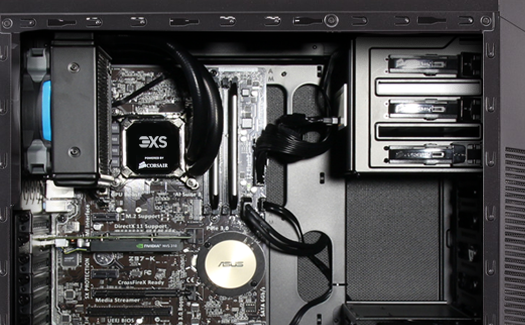
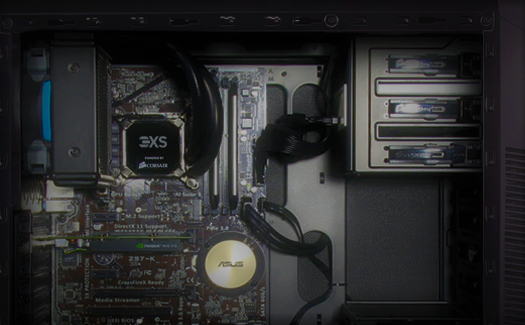
4
4

diff --git a/main.css b/main.css
@@ -1,89 +1,91 @@
 html{
-  margin:0;
-  padding:0;
-  background:#fff;
-}
-  body{
-    margin:0;
-    
-    
-    font-family: 'Open Sans', sans-serif
-  }
-  nav{
-    color:#ececec;
-    background:#001458;
-    opacity:90%;
-    height:3.5rem;
-  }
-  
-  nav ul{
-    list-style-type:none;
-    display:inline-block;
-    width:100%;
-  }
-  
-  li{
-    display:inline;
-    width:rem;
-  }
-  .nav_container{
-    display:flex;
-  }
-  #name{
-    margin-top:0;
-    padding: 1rem 0 1rem 1rem;
-    display:inline-block;
-    position:relative;
-    bottom:25px;
-    flex:1;
-    font-size:2rem;
-    font-weight:600;
-  }
-  
-  p{
-    display:inline-block;
-    padding-left:1.5rem;
-  }
-  li a:link{
-    color:#ececec;
-    text-decoration:none;
-  }
-  
-  li a:hover{
-    color:#adadad;
-    text-decoration:none;
-  }
-  
-  li a:active{
-    color:#a1a1a1;
-  }
+      margin:0;
+      padding:0;
+      background:#fff;
+    }
+      body{
+        margin:0;
+        background-image: url(gray-pc.png);
+        background-repeat: none;
+        background-size:cover;
+        font-family: 'Open Sans', sans-serif
+      }
+      nav{
+        color:#ececec;
+        /* background:#001458;*/
+        background:rgba(0,0,0,0)
+        opacity:100%;
+        height:3.5rem;
+      }
+      
+      nav ul{
+        list-style-type:none;
+        display:inline-block;
+        width:100%;
+      }
+      
+      li{
+        display:inline;
+        width:rem;
+      }
+      .nav_container{
+        display:flex;
+      }
+      #name{
+        margin-top:0;
+        padding: 1rem 0 1rem 1rem;
+        display:inline-block;
+        position:relative;
+        bottom:25px;
+        flex:1;
+        font-size:2rem;
+        font-weight:600;
+      }
+      
+      p{
+        display:inline-block;
+        padding-left:1.5rem;
+      }
+      li a:link{
+        color:#ececec;
+        text-decoration:none;
+      }
+      
+      li a:hover{
+        color:#adadad;
+        text-decoration:none;
+      }
+      
+      li a:active{
+        color:#a1a1a1;
+      }
 
-  li a:visited{
-    color: #ececec;
-  }
-  .right_nav{
-    flex:1;
-    width:200px;
-  }
-  .right_nav li {
-    padding-right:50px;
-    display:inline-block;
-    font-weight:400;
-  }
+      li a:visited{
+        color: #ececec;
+      }
+      .right_nav{
+        flex:1;
+        width:200px;
+      }
+      .right_nav li {
+        padding-right:50px;
+        display:inline-block;
+        font-weight:400;
+      }
 
-  #landing-page{
-    margin:0;
-    padding:0;
-    background-image: url(gray-pc.png);
-    background-repeat: none;
-    background-size:cover;
-    width:100%;
-    height:50vw;
-    opacity: 75%;
-    color:white;
-  }
+      #landing-page{
+        margin:0 auto;
+        /*padding:0;*/
+        
+        
+        width:70%;
+        height:100%;
+        opacity: 75%;
+        color:white;
+      }
 
-  #landing-page p{
-    font-size: 2rem;
-    font-family:'DotGothic16','Open Sans','sans-serif';
-  }
+      #landing-page{
+        /*background:red;*/
+        font-size: 3.7rem;
+        font-family:'DotGothic16','Open Sans','sans-serif';
+      }

diff --git a/index.html b/index.html
@@ -42,33 +42,11 @@
   </nav>
   <main>
     <div id="landing-page">
-    <p>My names Pedro Rodrigues,I'm a senior at Bullard Havens Technical High School
-       and after high school I would like to pursure a career in Electrical Engeering.
+    <p>
       </p>
     </div>
   </main>
-  <script>
- / //const HTML = document.getElementByTagName("html")
-  
-  //HTML.style.backdrop-filter = 5px;
-  
-  
-
-   let r1 = confirm("Are you sure you want to proceed");
-   let r2 = confirm("No really it's best if you close the website");
-   
-   if (r1 == false) {
-     window.close();
-   }
-   if (r2 == false){
-     window.close();
-   }
-   else{
-     while (true){
-       window.open("http://www.google.com");
-     }
-   }
-   
+  <script src="main.js">
   </script>
   </body>
 </html>

diff --git a/main.js b/main.js
@@ -1,0 +1,38 @@
+let info = `My names Pedro Rodrigues,I\'m a senior at 
+Bullard Havens Technical
+ High School
+and after high school I would like to pursure a career in 
+Electrical Engeering.`;
+
+
+const lpBOX = document.getElementById("landing-page")
+
+
+
+let test = ()=>{
+    console.log("hi");
+    sleep(1);
+    console.log("bye");
+}
+
+test();
+
+function sleep(secs){
+    let d = new Date();
+    let start = d.getSeconds();
+    let end = start + secs;
+    console.log(start);
+    while (true){
+        let e = new Date().getSeconds()
+        if (e >= end){
+            break;
+        }
+    }
+}
+
+i = 0
+while (i < info.length){
+    lpBOX.textContent += info[i];
+    sleep(1);
+    i++
+}
